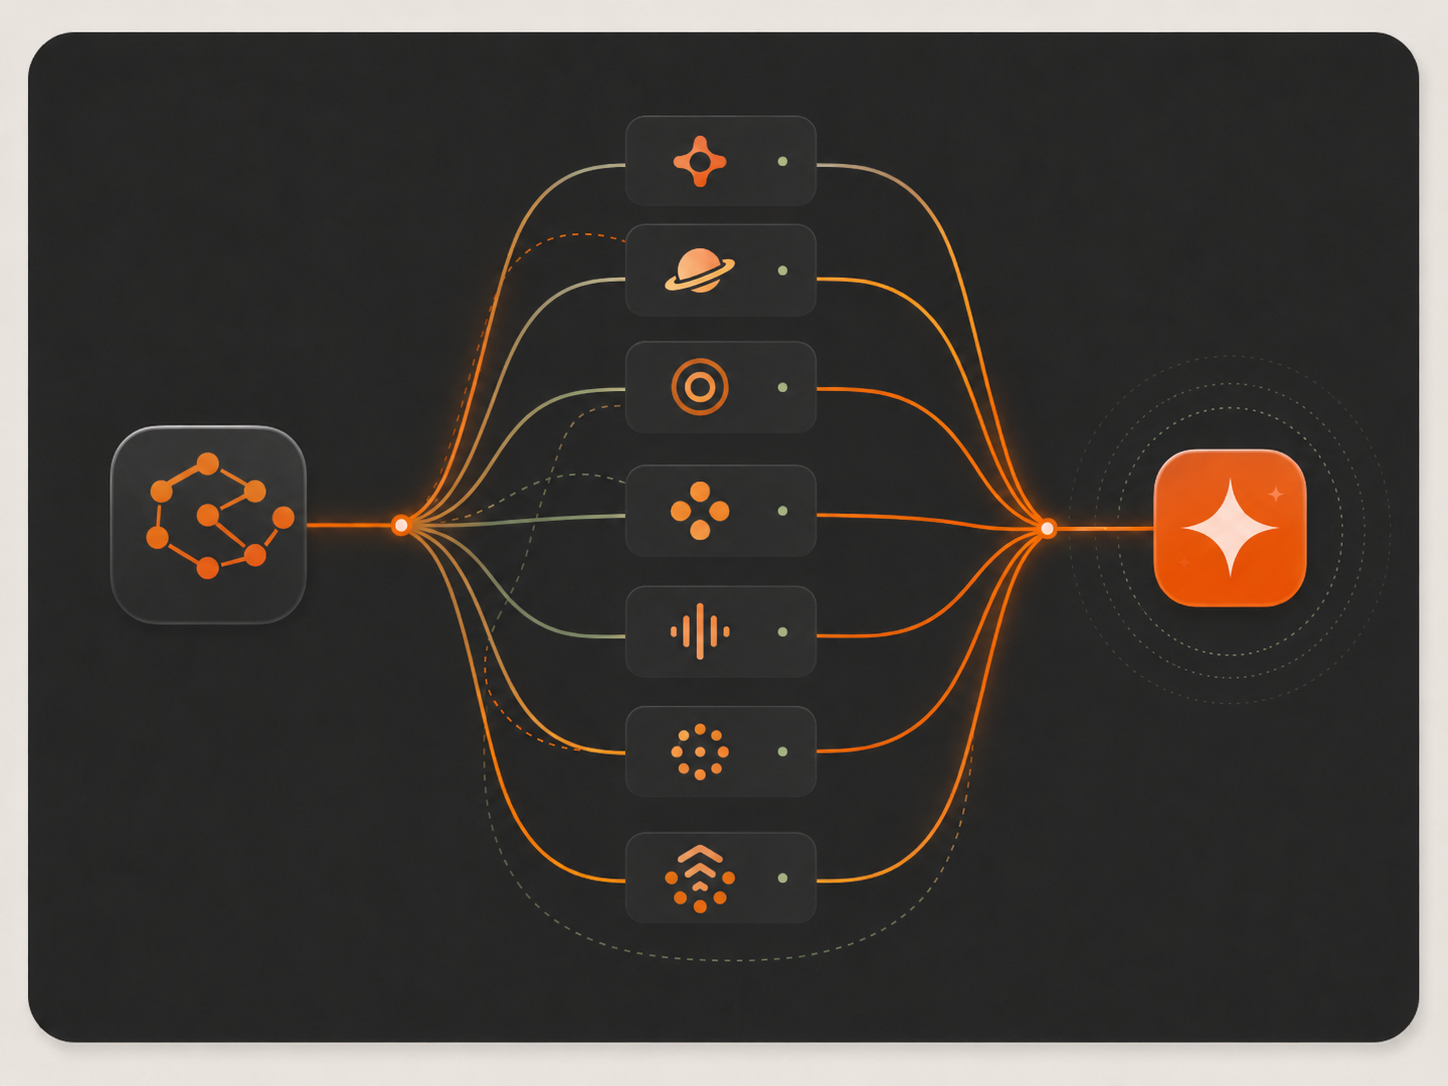
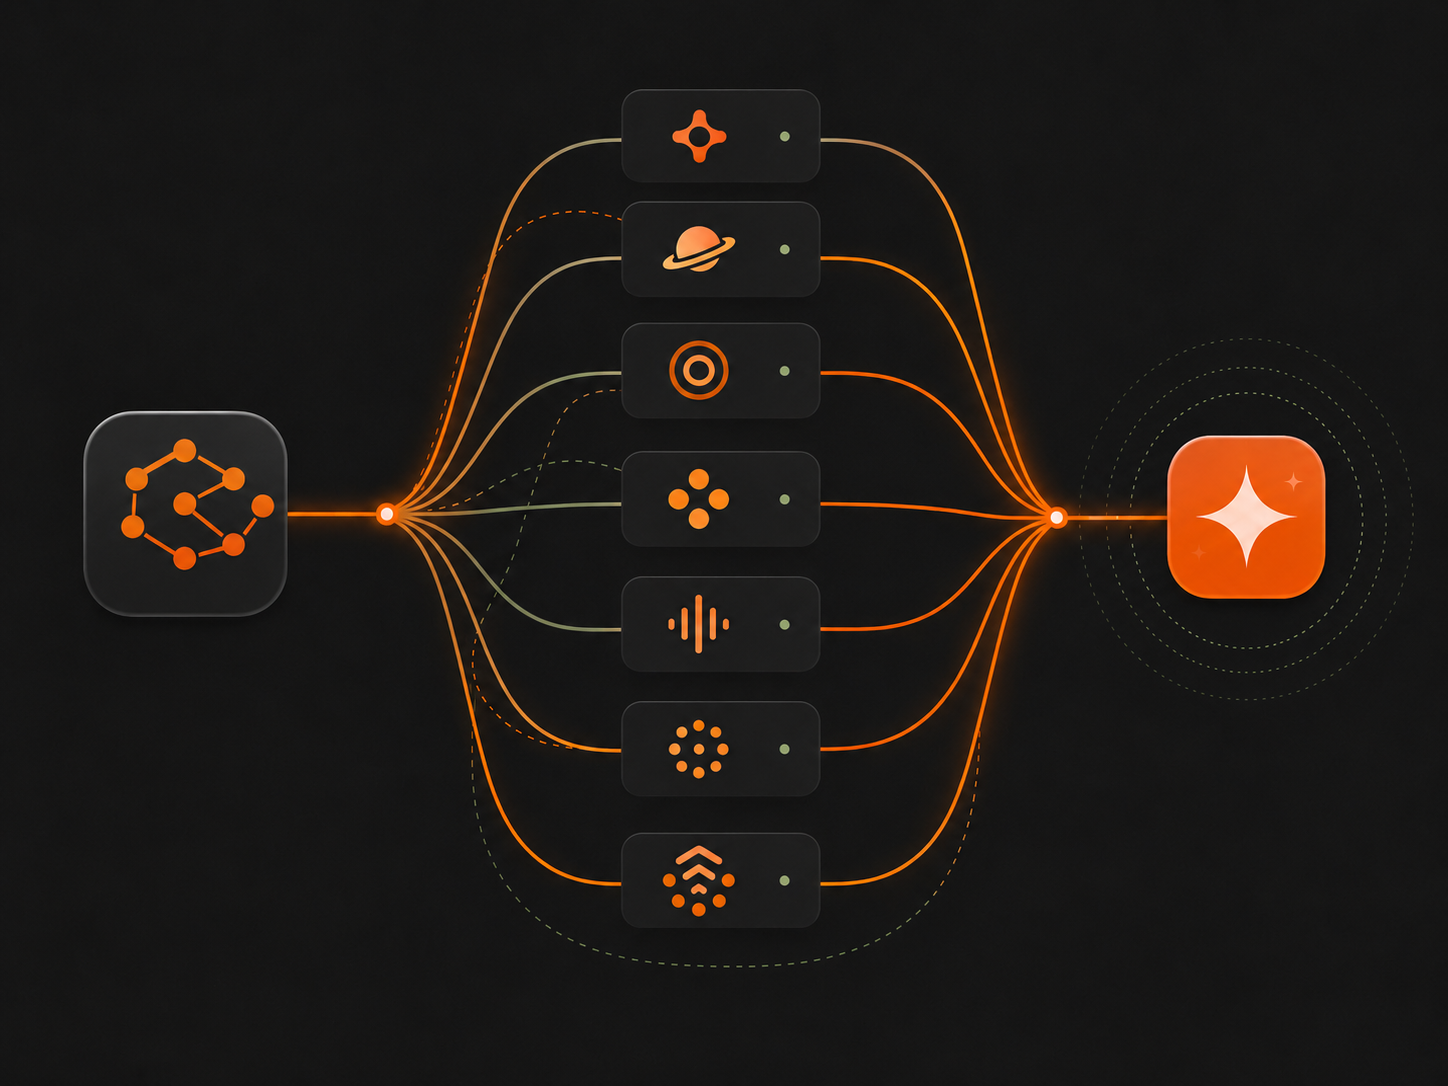
Fix docs scroll overflow and card image

diff --git a/docs/css/styles.css b/docs/css/styles.css
@@ -837,11 +837,12 @@ img {
   margin-top: 24px;
 }
 
+
 .docs-card {
   display: block;
   padding: 0 !important;
-  background: #ffffff;
-  border: 1px solid rgba(0, 0, 0, 0.08);
+  background: transparent;
+  border: 0;
   border-radius: 10px;
   overflow: hidden;
   text-decoration: none;
@@ -856,13 +857,15 @@ img {
   text-decoration: none;
 }
 
+
 .docs-card img {
   width: 100%;
   height: 150px;
   object-fit: cover;
   display: block;
   margin: 0;
-  border-radius: 0;
+  border: 0 !important;
+  border-radius: 10px 10px 0 0;
 }
 
 .docs-card-title {
@@ -875,6 +878,7 @@ img {
   font-weight: 500;
   line-height: 1.2;
   color: #222;
+  background: #ffffff;
 }
 
 .docs-card-disabled {